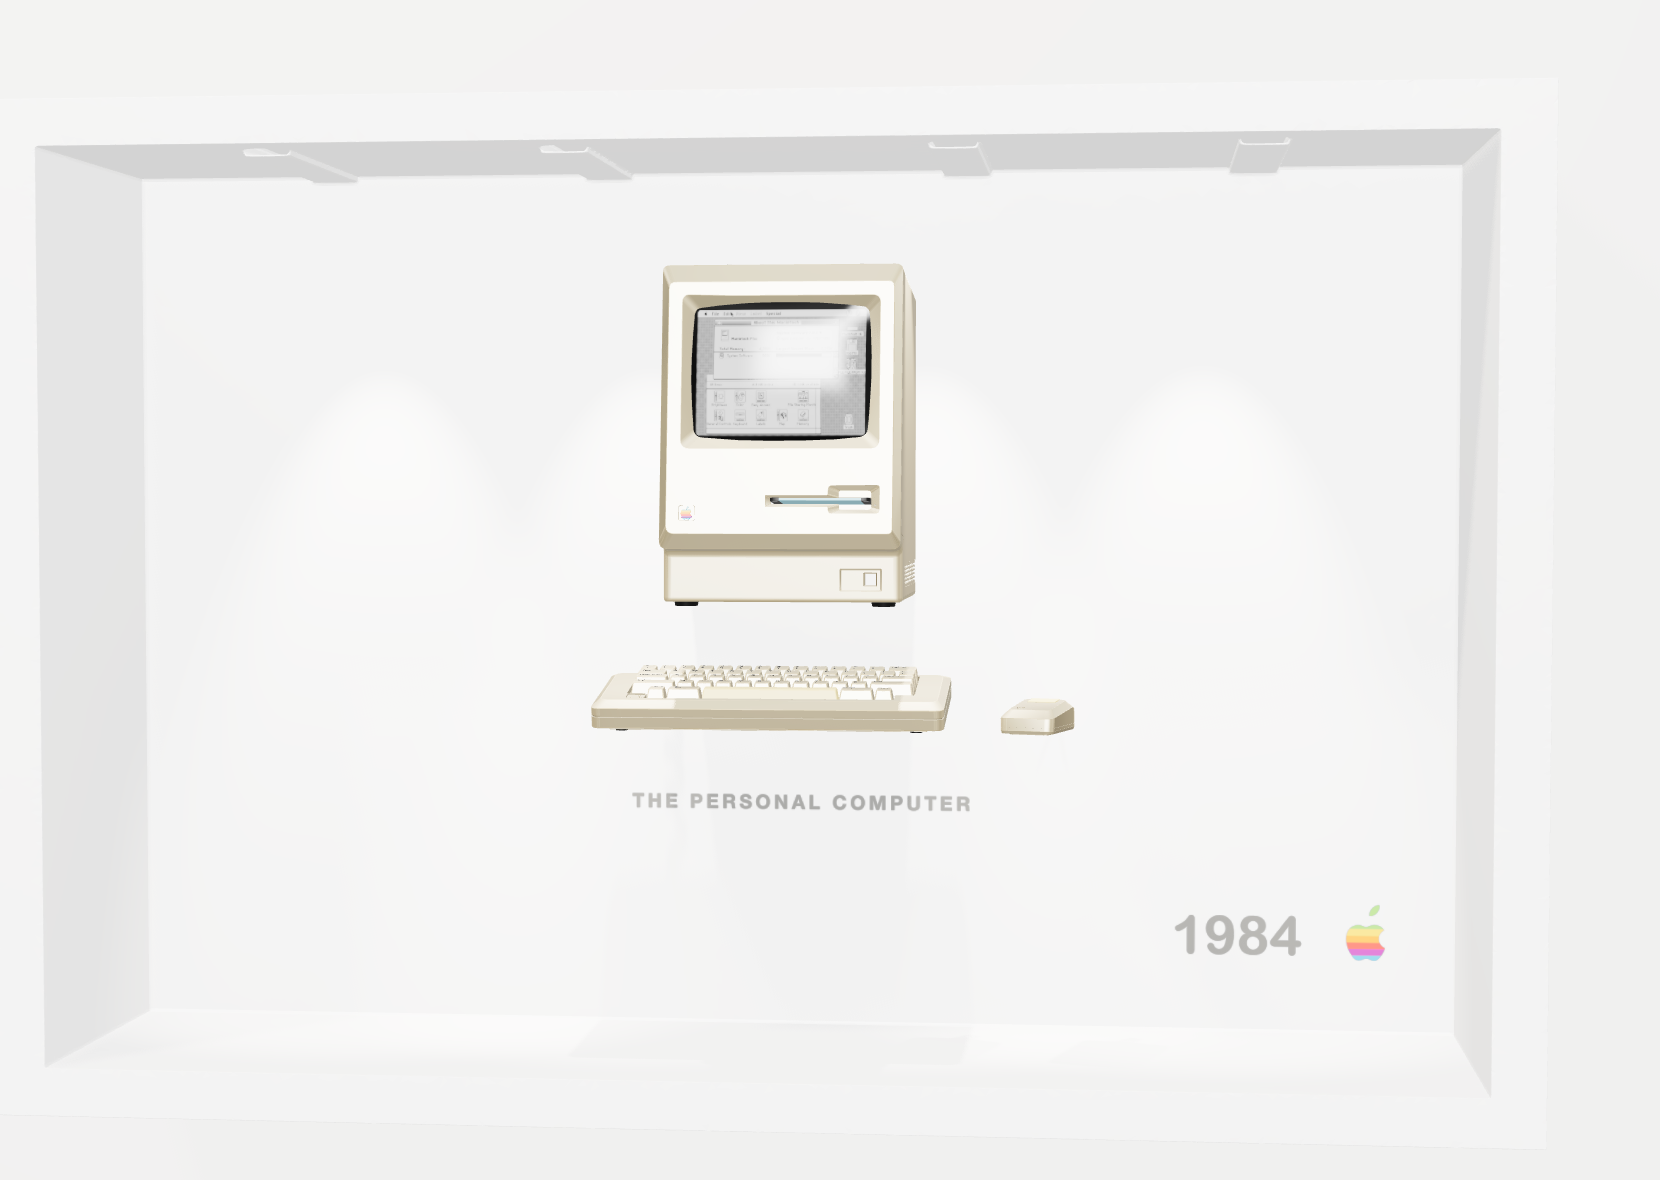
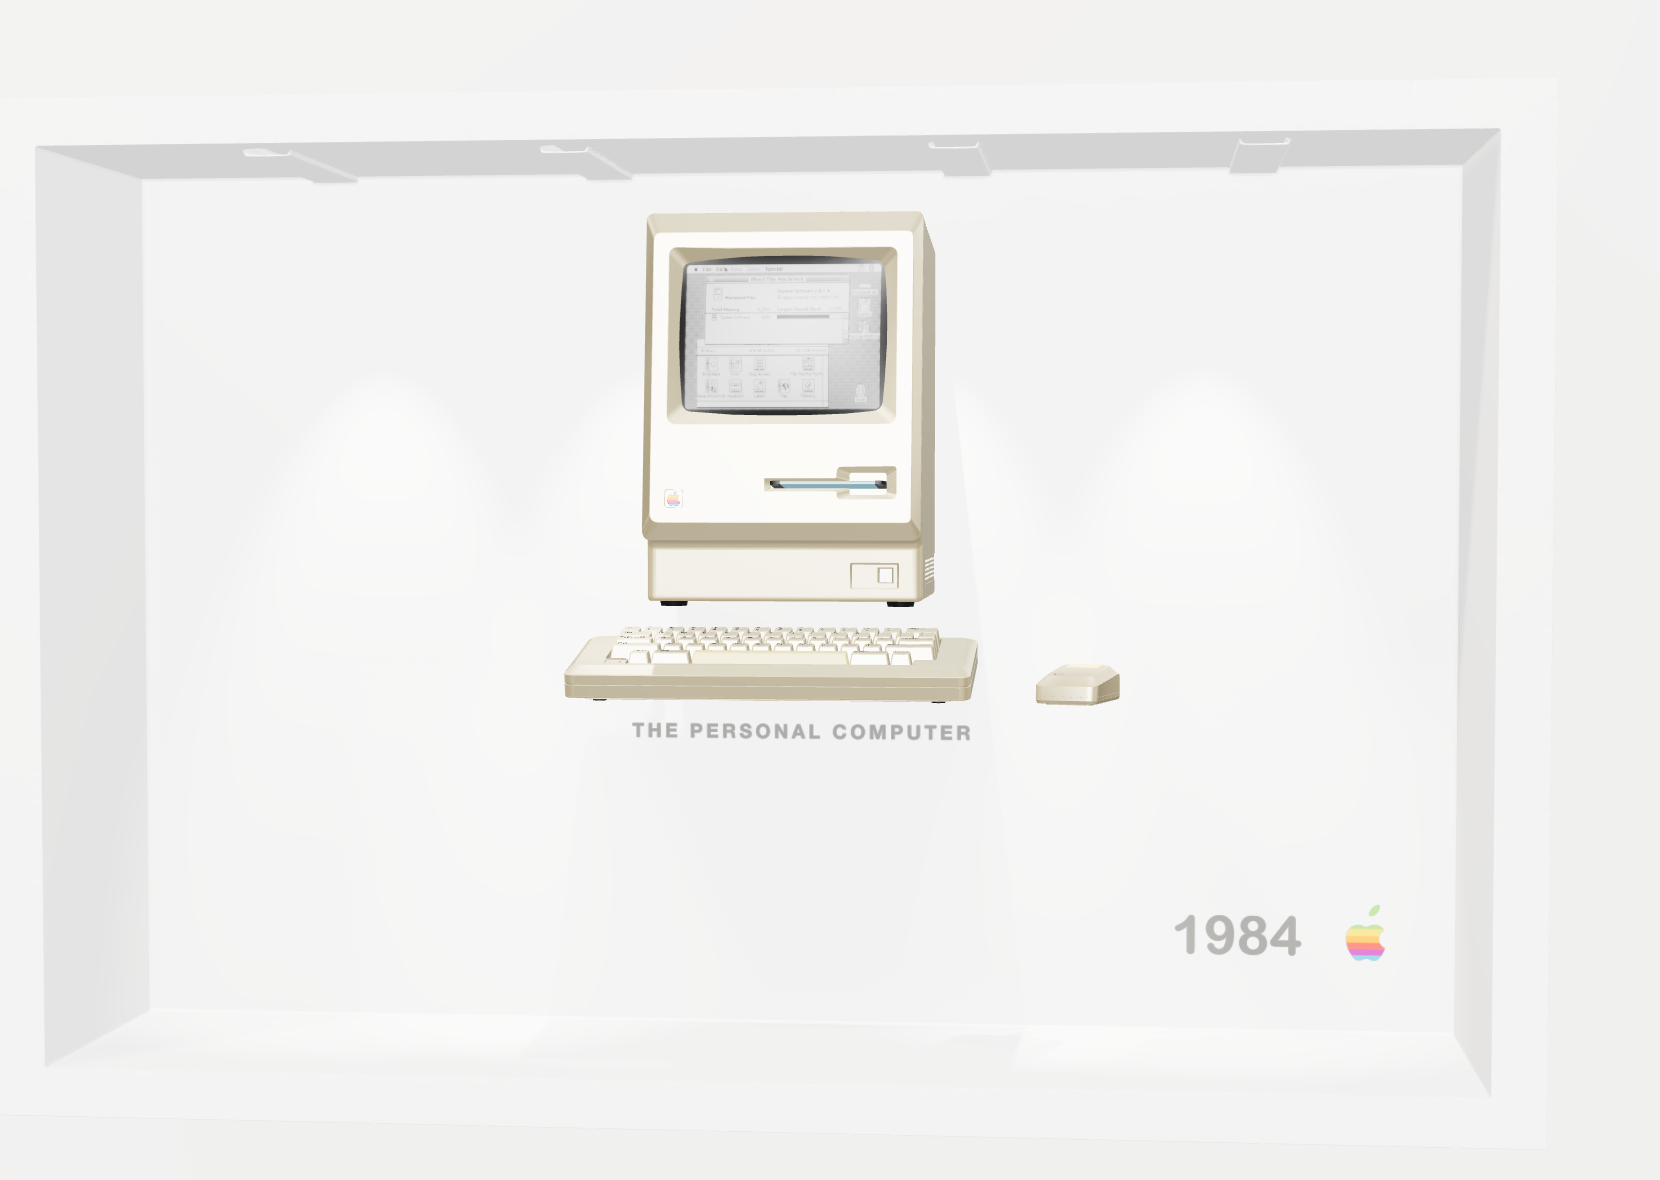
Kill the screen blowout for real; match target composition
The white blob was the interior LEDs mirrored in the CRT's zero-roughness
glass, not emissive glow — roughness raised and env reflection removed so
the desktop reads crisp. Composition tightened to the reference: computer
scaled to display size, keyboard and mouse tucked under the case, label
directly beneath the keyboard. Case assembly is translation-only so the
screen can't drift out of its bezel mid-flight, and the wall gains a faint
photographic vignette. Thumbnail re-shot.

Changed region(s): [[0.338, 0.1525, 0.6759, 0.6407], [0.3687, 0.6712, 0.5837, 0.7017]]

diff --git a/src/components/room/WallScene3D.tsx b/src/components/room/WallScene3D.tsx
@@ -24,7 +24,9 @@ const PARTS: Array<{
   delay: number;
   dur: number;
 }> = [
-  { names: ["Main case", "Logo", "Screen.001"], offset: [0, 0.10, 0.55], spin: [0, -0.35, 0], delay: 1.0, dur: 1.1 },
+  // translation only — the case, logo, and screen have different pivots,
+  // so any spin makes the screen drift out of the bezel mid-flight
+  { names: ["Main case", "Logo", "Screen.001"], offset: [0, 0.12, 0.55], delay: 1.0, dur: 1.1 },
   { names: ["Floppy disk"], offset: [0.22, 0.05, 0.5], spin: [0, 0, 0.4], delay: 1.55, dur: 0.9 },
   { names: ["Keyboard", "keyboard Cable"], offset: [0, -0.32, 0.38], delay: 1.4, dur: 1.0 },
   { names: ["Mouse", "Mouse cable"], offset: [0.5, -0.08, 0.22], delay: 1.65, dur: 0.9 },
@@ -255,9 +257,12 @@ export default function WallScene3D({ light, art }: Props) {
           mesh.receiveShadow = false;
           mesh.renderOrder = 20;
         } else if (mat.name === "Screen") {
-          // the emissive-strength extension blows the screen to a white
-          // glow — pull it down so the desktop stays readable
-          mat.emissiveIntensity = 0.85;
+          // two separate blowouts here: the emissive-strength extension
+          // over-glows the desktop, and roughness 0 mirrors the interior
+          // LEDs as a white blob across the glass
+          mat.emissiveIntensity = 0.9;
+          mat.roughness = 0.45;
+          mat.envMapIntensity = 0;
         } else {
           mat.envMapIntensity = 0.15;
           if (/^Card /.test(mat.name)) {
@@ -273,6 +278,18 @@ export default function WallScene3D({ light, art }: Props) {
         gltf.scene.getObjectByName(name) ??
         gltf.scene.getObjectByName(name.replace(/[\s.]/g, "_")) ??
         gltf.scene.getObjectByName(name.replace(/\s/g, "_"));
+
+      // Composition to match the reference: the computer reads at real
+      // display scale, keyboard tucked close under the case, label close
+      // under the keyboard. (Adjust BEFORE the animation captures bases.)
+      const macGroup = findNode("Apple Macintosh 1984");
+      if (macGroup) macGroup.scale.multiplyScalar(1.15);
+      for (const name of ["Keyboard", "keyboard Cable", "Mouse", "Mouse cable"]) {
+        const n = findNode(name);
+        if (n) n.position.y += 0.045;
+      }
+      const labelCard = findNode("Card The Personal Computer");
+      if (labelCard) labelCard.position.y = -0.175;
 
       for (const part of PARTS) {
         for (const name of part.names) {
@@ -329,5 +346,17 @@ export default function WallScene3D({ light, art }: Props) {
     // eslint-disable-next-line react-hooks/exhaustive-deps
   }, []);
 
-  return <div ref={mountRef} className="absolute inset-0" />;
+  return (
+    <div className="absolute inset-0">
+      <div ref={mountRef} className="absolute inset-0" />
+      {/* photographic vignette — keeps the corners from reading flat */}
+      <div
+        className="pointer-events-none absolute inset-0"
+        style={{
+          background:
+            "radial-gradient(130% 105% at 50% 42%, rgba(0,0,0,0) 62%, rgba(35,33,30,0.07) 100%)",
+        }}
+      />
+    </div>
+  );
 }
